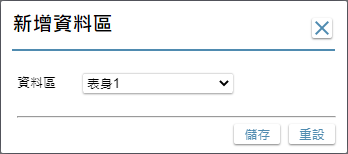
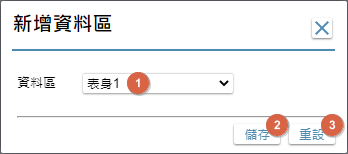
表單加註_元件對應

Changed region(s): [[0.9195, 0.7273, 1.0, 0.9091], [0.7471, 0.7273, 0.8333, 0.9091], [0.3448, 0.4675, 0.431, 0.6234]]

diff --git a/8.10.2/IDE/Specification/FAConnect/README.md b/8.10.2/IDE/Specification/FAConnect/README.md
@@ -1,0 +1,80 @@
+## <div id="layout">版面相關</div>
+* 版面</br>
+    ![pic][image_FAConnect]
+* [版面資訊通則][link_ruleother1]
+		
+## <div id="form-action">動作說明</div>
+* 由 表單加註_資料區 加註介面, 執行按鍵.元件對應, 進入本單
+* 依規格定義-主畫面 結構清單駐留節點 資料區, 執行滑鼠右鍵.元件對應, 進入本單
+* 開啟時, 即進入編修狀態
+
+## <div id="object-desc">欄位說明</div>
+* <p id="fieldbreak1" style="color:blue;font-weight:bold">基本區塊</p>
+
+    ![pic][image_fieldbreak1]
+    * `(1)表單名稱`
+        * 用途說明
+        * 規格說明
+            * 顯示 前單表單名稱
+    * `(2)料號`
+        * 用途說明
+        * 規格說明
+            * 顯示 前單表單料號
+    * `(3)表單元件清單`
+        * 用途說明
+        * 規格說明
+            * 顯示同表單下, 所有的需對應檔區欄位的元件(含隱藏元件)
+            * 當元件有對應到檢視表元件時, 顯示 "元件名稱 ←→ 檔區.檢視表欄位名稱" (例: 廠商 ←→ 表頭.廠商代碼)
+            * [個資加密提示通則][link_ruleother11]
+            * 若重覆對應相同的檔區.檢視表元件, 則文字粗體顯示
+    * `(4)檢視表欄位清單`
+        * 用途說明
+        * 規格說明
+            * 顯示同表單下, 各檔區所有的輸出元件, 以檔區名.邏表元件名稱 顯示
+            * [個資加密提示通則][link_ruleother11]
+    * `(5)自動對應鍵`
+        * 用途說明
+        * 規格說明
+            * 依`(3)表單元件清單`中的元件為主, 由`(4)檢視表欄位清單`中, 同名稱的欄位, 進行連結對應
+    * `(6)連結對應`
+        * 用途說明
+        * 規格說明
+            * 在`(3)表單元件清單`中, 駐留某筆, 同時在`(4)檢視表欄位清單`中, 駐留某筆, 點擊後, 進行連結
+            * 若未駐留`(3)表單元件清單`中的元件 或 未駐留`(4)檢視表欄位清單`中的欄位, 則顯示訊息盒【標題: 系統訊息 / 請選擇 / 按鍵:確定】
+                * 確定: 關閉訊息盒
+    * `(7)取消連結對應`
+        * 用途說明
+        * 規格說明
+            * 在`(3)表單元件清單`中, 駐留已連結檢視表欄位的元件, 點擊後, 取消連結
+            * 若未駐留`(3)表單元件清單`中的元件, 則顯示訊息盒【標題: 系統訊息 / 請選擇 / 按鍵:確定】
+                * 確定: 關閉訊息盒
+    * `(8)未對應欄位元件筆數`
+        * 用途說明
+        * 規格說明
+            * 顯示在`(3)表單元件清單`中, 未對應檢視表欄位的元件個數
+    * `(9)重複對應檢視表欄位筆數`
+        * 用途說明
+        * 規格說明
+            * 顯示在`(3)表單元件清單`中, 未重覆對應檢視表欄位的元件個數
+    * `(10)儲存`
+        * 用途說明
+        * 規格說明
+            * 依`(3)表單元件清單`中, 對應連結內容, 產生元件對應欄位檔
+            * [個資加密提示通則][link_ruleother11]
+            * 以下元件類型的對應檔區不可清空
+                * wCB.核取方塊、checkbox.核取方塊(欄位資料)、wObj.嵌入物件、wTBtn.連結框線、wCtnr.元件容器、wDpanel.動態面板、wTP.文字標題、wGrd.多筆表格、wTab.頁籤區塊
+            * [權限驗証通則][link_ruleother6]
+            * 儲存後, 關閉表單
+    * `(11)取消`
+        * 用途說明
+        * 規格說明
+            * 關閉表單
+
+<!-- 圖片 -->
+[image_FAConnect]:attachment/FAConnect.png
+[image_fieldbreak1]:attachment/FAConnect_block1.png
+
+<!-- 超連結 -->
+[link_ruleother1]:../RulesOther/README#ruleother1 "共用通則_其它/版面資訊通則"
+[link_ruleother6]:../RulesOther/README#ruleother6 "共用通則_其它/權限驗証通則"
+[link_ruleother11]:../RulesOther/README#ruleother11 "共用通則_其它/個資加密提示通則"

diff --git a/8.10.2/IDE/Specification/AddDataAreaForm/README.md b/8.10.2/IDE/Specification/AddDataAreaForm/README.md
@@ -4,8 +4,8 @@
 * [版面資訊通則][link_ruleother1]
 		
 ## <div id="form-action">動作說明</div>
-* 依規格定義-主畫面 結構清單駐留節點 資料來源, 執行按鍵.新增，進入本單
-* 依規格定義-主畫面 結構清單駐留節點 資料區, 執行滑鼠右鍵.新增，進入本單 
+* 依規格定義-主畫面 結構清單駐留節點 資料來源, 執行按鍵.新增, 進入本單
+* 依規格定義-主畫面 結構清單駐留節點 資料區, 執行滑鼠右鍵.新增, 進入本單 
 
 ## <div id="object-desc">欄位說明</div>
 * <p id="fieldbreak1" style="color:blue;font-weight:bold">基本區塊</p>
@@ -14,12 +14,18 @@
     * `(1)資料區`
         * 用途說明
         * 規格說明
+            * 下拉選項 表身1/表身2/.../表身9
+            * 若單據已有該資料區, 則不顯示該資料區的選項
+            * 預設 最小資料區
     * `(2)儲存`
         * 用途說明
         * 規格說明
+            * 存回時, 新增本次選取的資料區
+            * [權限驗証通則][link_ruleother6]
     * `(3)重設`
         * 用途說明
         * 規格說明
+            * `(1)資料區`重新設定為最小資料區
 
 ## <div id="save-action">儲存檢控</div>
 * 以下欄位符合條件時, 顯示訊息盒, 顯示規則參照 [存回其它檢控通則][link_ruleother8]
@@ -27,16 +33,9 @@
 
 <!-- 圖片 -->
 [image_addDataAreaForm]:attachment/AddDataAreaForm.png
-[image_fieldbreak1]:attachment/image_addDataAreaForm_block1.png
+[image_fieldbreak1]:attachment/AddDataAreaForm_block1.png
 
 <!-- 超連結 -->
 [link_ruleother1]:../RulesOther/README#ruleother1 "共用通則_其它/版面資訊通則"
 [link_ruleother8]:../RulesOther/README#ruleother8 "共用通則_其它/存回其它檢控通則"
-
-
-
-[link_ruleother2]:../RulesOther/README#ruleother2 "共用通則_其它/OnlineHelp通則"
 [link_ruleother6]:../RulesOther/README#ruleother6 "共用通則_其它/權限驗証通則"
-[link_rulebutton1]:../RulesButton/README#rulebutton1 "共用通則_操作按鍵/搜尋區塊操作通則"
-[link_rulebutton2]:../RulesButton/README#rulebutton2 "共用通則_操作按鍵/單據異動資料按鍵操作通則"
-[link_ruledialog2]:../RulesDialog/README#ruledialog2 "共用通則_開啟單據/使用多語詞庫通則"

diff --git a/8.10.2/IDE/Specification/RulesOther/README.md b/8.10.2/IDE/Specification/RulesOther/README.md
@@ -83,7 +83,6 @@
     * <ps>待補</ps>
 
 ## <p id="ruleother10">使用頁面鎖定通則</p>
-
 * 目前有設定編輯所定的範圍為:表單設計版面(傳統+RWD+APP)、報表設計版面、生成表單版面、駐留順序、流程圖、選單、檢視表
   * 表單設計版面(傳統+RWD+APP):同步、編輯、存回
   * 報表設計版面:同步、編輯、存回
@@ -110,7 +109,6 @@
 * 重整瀏覽器頁面或關閉瀏覽器頁面會清除該頁面的鎖定紀錄
 
 ## <p id="ruleother11">個資加密提示通則</p>
-
 * 引用欄位
   * 資料表欄位:個資加密有勾選 或 密碼處理有勾選，則為加密資料
   * 檢視表欄位:(個資加密有勾選 且 個資解密無勾選) 或 密碼處理有勾選，則為加密資料

diff --git a/8.10.2/IDE/Specification/FORM/_sidebar.md b/8.10.2/IDE/Specification/FORM/_sidebar.md
@@ -8,7 +8,7 @@
 * 表單加註
     * [基本設定](../../Specification/FormAnnotation/README.md)
     * [資料區](../../Specification/FADataSource/README.md)
-    * [元件對應](FAConnect)
+    * [元件對應](../../Specification/FAConnect/README.md)
 * 元件加註
     * [基本設定](ObjectAnnotation)
     * [顯示設定](OADisplay)

diff --git a/8.10.2/IDE/Specification/Specification/README.md b/8.10.2/IDE/Specification/Specification/README.md
@@ -13,7 +13,7 @@
     * `(1)OnlineHelp`
         * 用途說明
         * 規格說明
-			* [OnlineHelp通則][link_ruleother2], 錨點: ProduceDocument
+			* [OnlineHelp通則][link_ruleother2]
 	* `(2)文件類型`
         * 用途說明
         * 規格說明

diff --git a/8.10.2/IDE/Specification/FAConnect/_sidebar.md b/8.10.2/IDE/Specification/FAConnect/_sidebar.md
@@ -1,7 +1,6 @@
-# 新增隱藏按鍵
+# 元件對應
 * [上一頁]({back})
 * [版面相關](README#layout)
 * [動作說明](README#form-action)
 * [欄位說明](README#object-desc)
-* [儲存檢控](README#save-action)
 * [history](history)

diff --git a/8.10.2/IDE/Specification/Parameter/README.md b/8.10.2/IDE/Specification/Parameter/README.md
@@ -14,7 +14,6 @@
         * 用途說明
         * 規格說明
             * 參照 [OnlineHelp通則][link_ruleother2]
-            * 錨點: PassParameters
     * `(2)參數類別`
         * 用途說明
         * 規格說明

diff --git a/8.10.2/IDE/Specification/AddDataAreaForm/_sidebar.md b/8.10.2/IDE/Specification/AddDataAreaForm/_sidebar.md
@@ -1,5 +1,5 @@
 # 新增資料來源
-* [上一頁](../README.md)
+* [上一頁]({back})
 * [版面相關](README#layout)
 * [動作說明](README#form-action)
 * [欄位說明](README#object-desc)

diff --git a/8.10.2/IDE/Specification/AddHiddenObject/_sidebar.md b/8.10.2/IDE/Specification/AddHiddenObject/_sidebar.md
@@ -1,5 +1,5 @@
 # 新增隱藏元件
-* [上一頁](../README.md)
+* [上一頁]({back})
 * [版面相關](README#layout)
 * [動作說明](README#form-action)
 * [欄位說明](README#object-desc)

diff --git a/8.10.2/IDE/Specification/FAConnect/history.md b/8.10.2/IDE/Specification/FAConnect/history.md
@@ -1,0 +1,16 @@
+變更記錄
+===
+| 版本 |
+| :---: |
+| [old](#old) |
+| [8.10.2](#v8_10_2) |
+
+***
+
+### <a id='v8_10_2'></a>8.10.2
+
+ 
+<!-- 圖片 -->
+
+
+<!-- 超連結 -->
